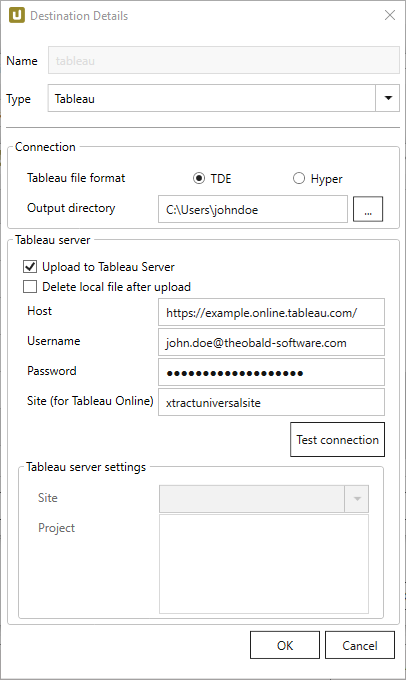
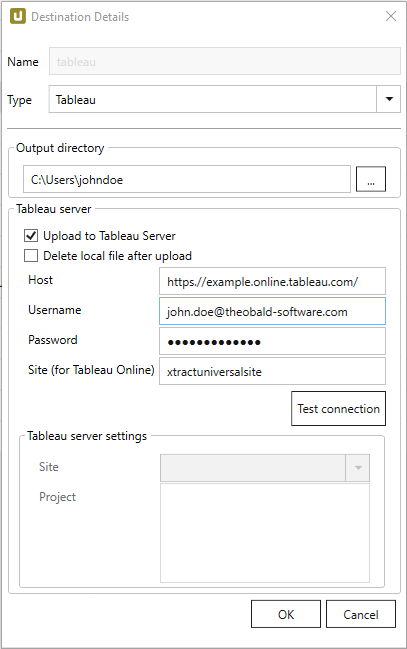
tableau

Changed region(s): [[0.0, 0.0, 0.9754, 1.0], [0.3842, 0.678, 0.9163, 0.7704], [0.9458, 0.0, 0.9754, 0.0308]]

diff --git a/content/_de/xtract-universal/xu-destinationen/tableau/tableau-mit-data-extract/verbindung.md b/content/_de/xtract-universal/xu-destinationen/tableau/tableau-mit-data-extract/verbindung.md
@@ -15,11 +15,7 @@ Die folgenden Einstellungen sind beim Einrichten der Tableau Destination verfüg
 
 ![tableauDestinationDetails-hyper](/img/content/tableauDestinationDetails-hyper.png){:class="img-responsive"}
 
-### Connection
-**TDE oder Hyper** <br>
-Wählen Sie das gewünschte Format der Data Extract-Datei. 
-
-**Output directory** <br>
+### Output directory <br>
 Geben Sie das Verzeichnis auf dem Xtract Universal Server an, in das die exportierten Tableau-Dateien gespeichert werden sollen.
 
 {: .box-note }
@@ -27,7 +23,7 @@ Geben Sie das Verzeichnis auf dem Xtract Universal Server an, in das die exporti
 
 ### Tableau Server
 - **Upload to Tableau Server** <br>
-Option zum Hochladen der extrahierten TDE-Datei (als Datenquelle) auf Tableau Server oder Tableau Online.
+Option zum Hochladen der extrahierten Datei (als Datenquelle) auf Tableau Server oder Tableau Online.
 - **Delete local file after upload**
 Option zum Entfernen der lokalen Datei nach einem erfolgreichen Upload.
 

diff --git a/content/_en/xtract-universal/xu-destinations/tableau/tableau-data-extract.md b/content/_en/xtract-universal/xu-destinations/tableau/tableau-data-extract.md
@@ -12,8 +12,7 @@ lang: en_GB
 old_url: /Xtract-Universal-EN/default.aspx?pageid=tableau-data-extract
 ---
 
-The Tableau Destination enables you to save data extracted from SAP to a Data Extract File.<br> 
-Both options Tableau Data Extract (TDE) and Hyper Data Extract are supported. <br>
+The Tableau Destination enables you to save data extracted from SAP to a Data Extract File in hyper format.<br> 
 It is also possible to upload the Data Extract file to Tableau Server or Tableau Online.
 
 {% include _content/table-of-contents.html parent=page.childidentifier collection=site.en %}

diff --git a/content/_de/xtract-universal/xu-destinationen/tableau/tableau-mit-data-extract.md b/content/_de/xtract-universal/xu-destinationen/tableau/tableau-mit-data-extract.md
@@ -12,8 +12,8 @@ lang: de_DE
 old_url: /Xtract-Universal-DE/default.aspx?pageid=tableau-mit-data-extract
 ---
 
-Mit der Tableau destination können Sie die extrahierten SAP-Daten als Data Extract ablegen. <br>
-Dabei werden die beiden Formate TDE (Tableau Data Extract) und Hyper unterstützt.<br>
+Mit der Tableau Destination können Sie die extrahierten SAP-Daten als Data Extract im Hyper-Format ablegen. <br>
+
 Optional ist es auch möglich, die erzeugte Data Extract-Datei zu einem Tableau-Server oder Tableau Online hochzuladen.
 
 
